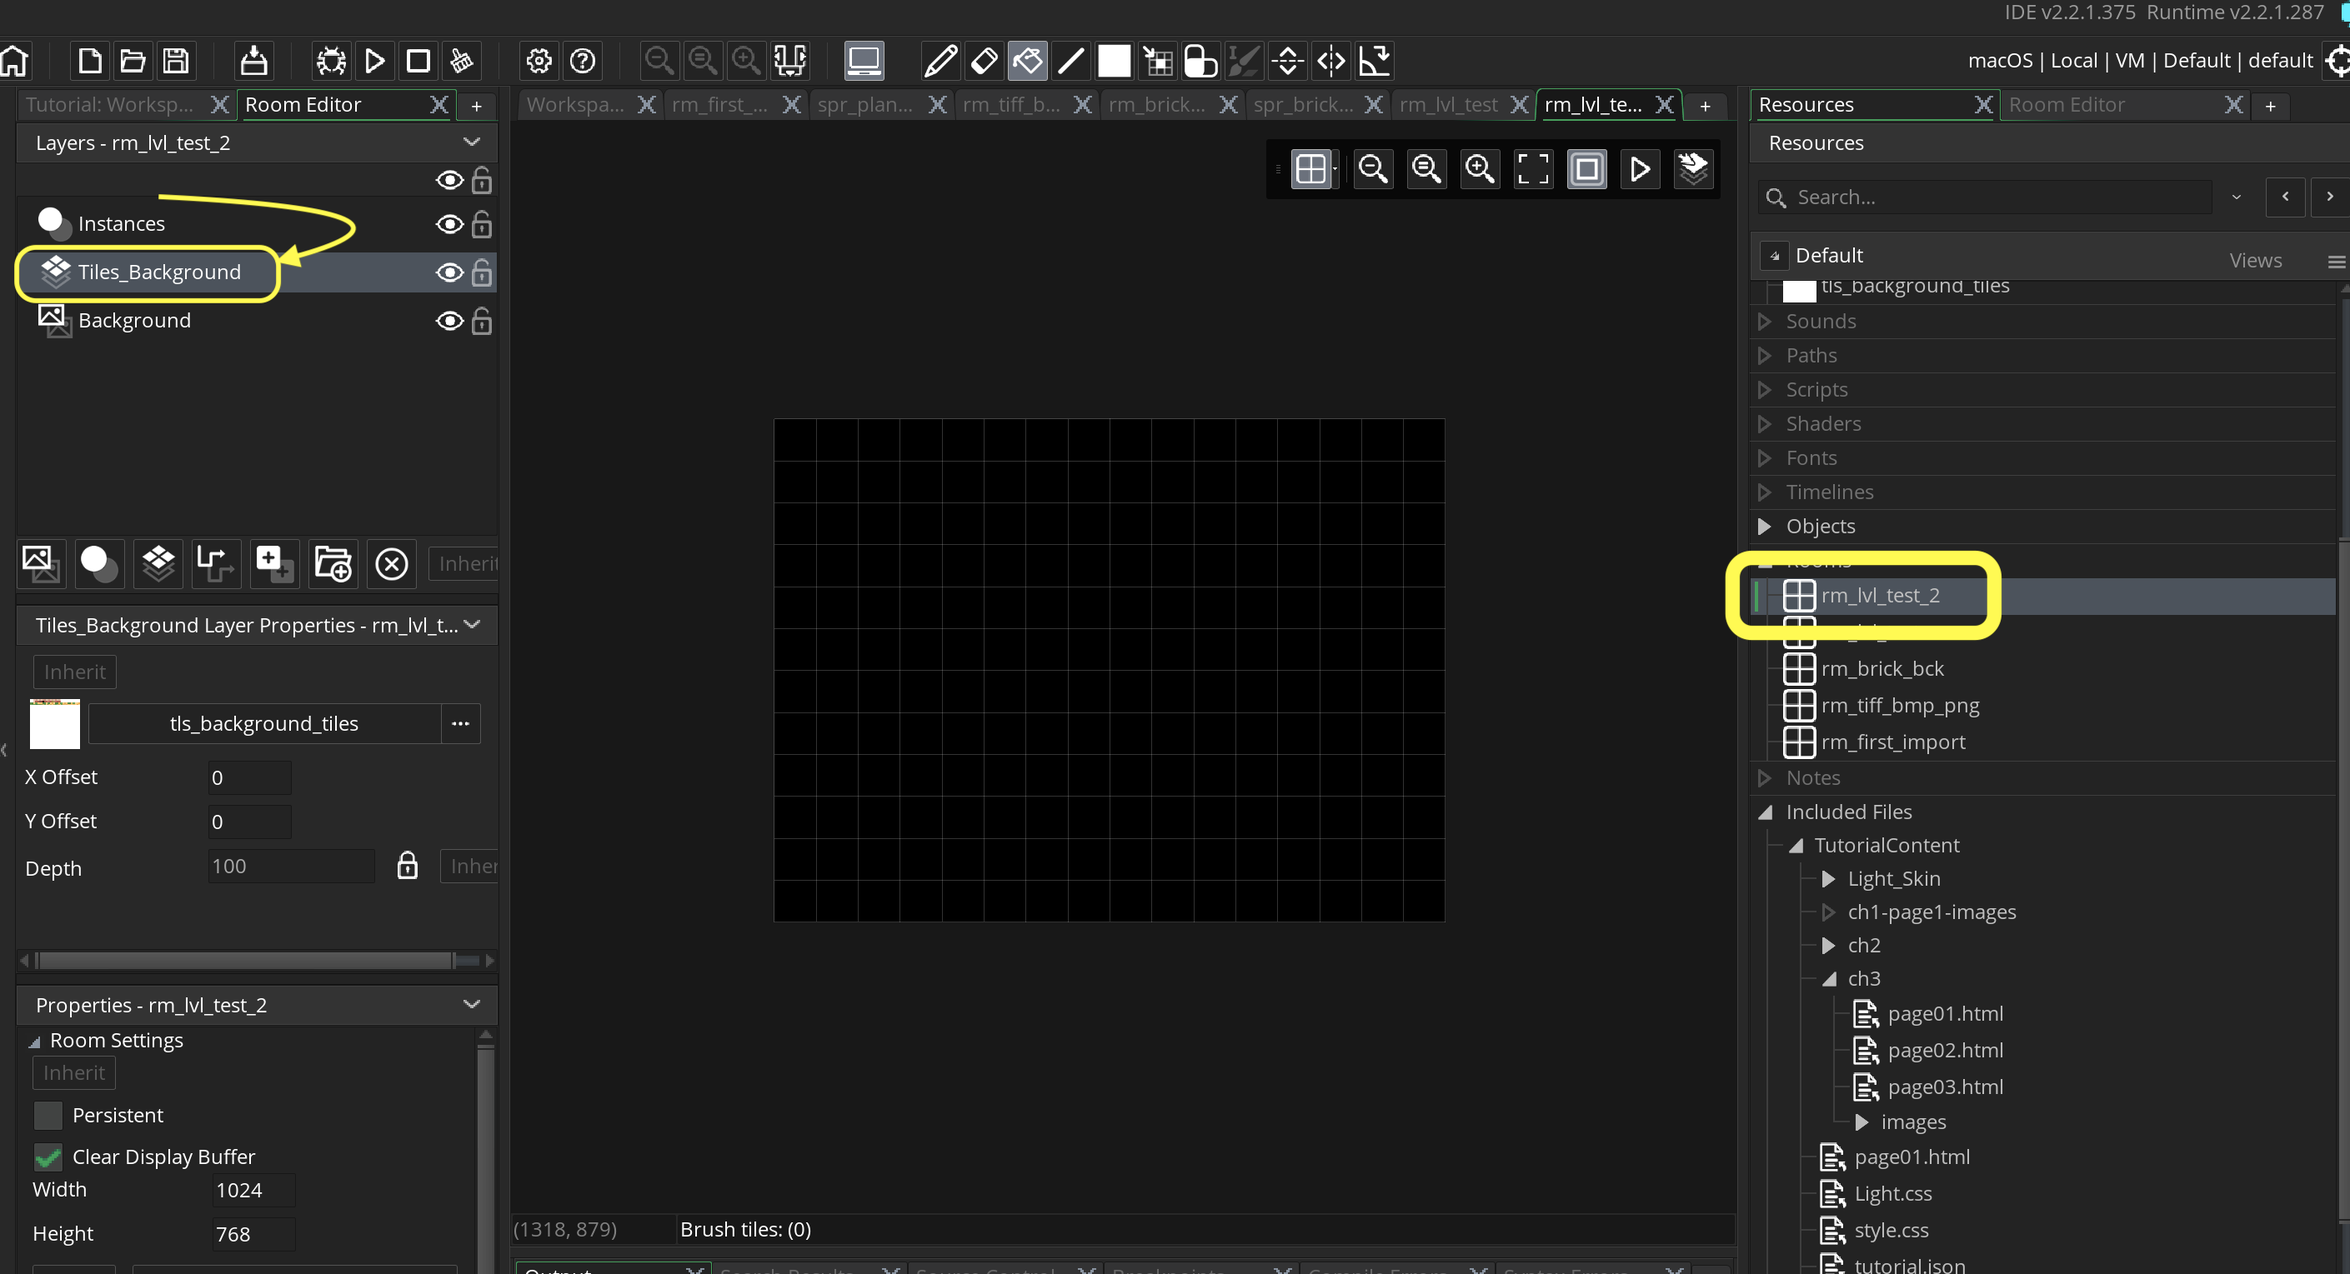
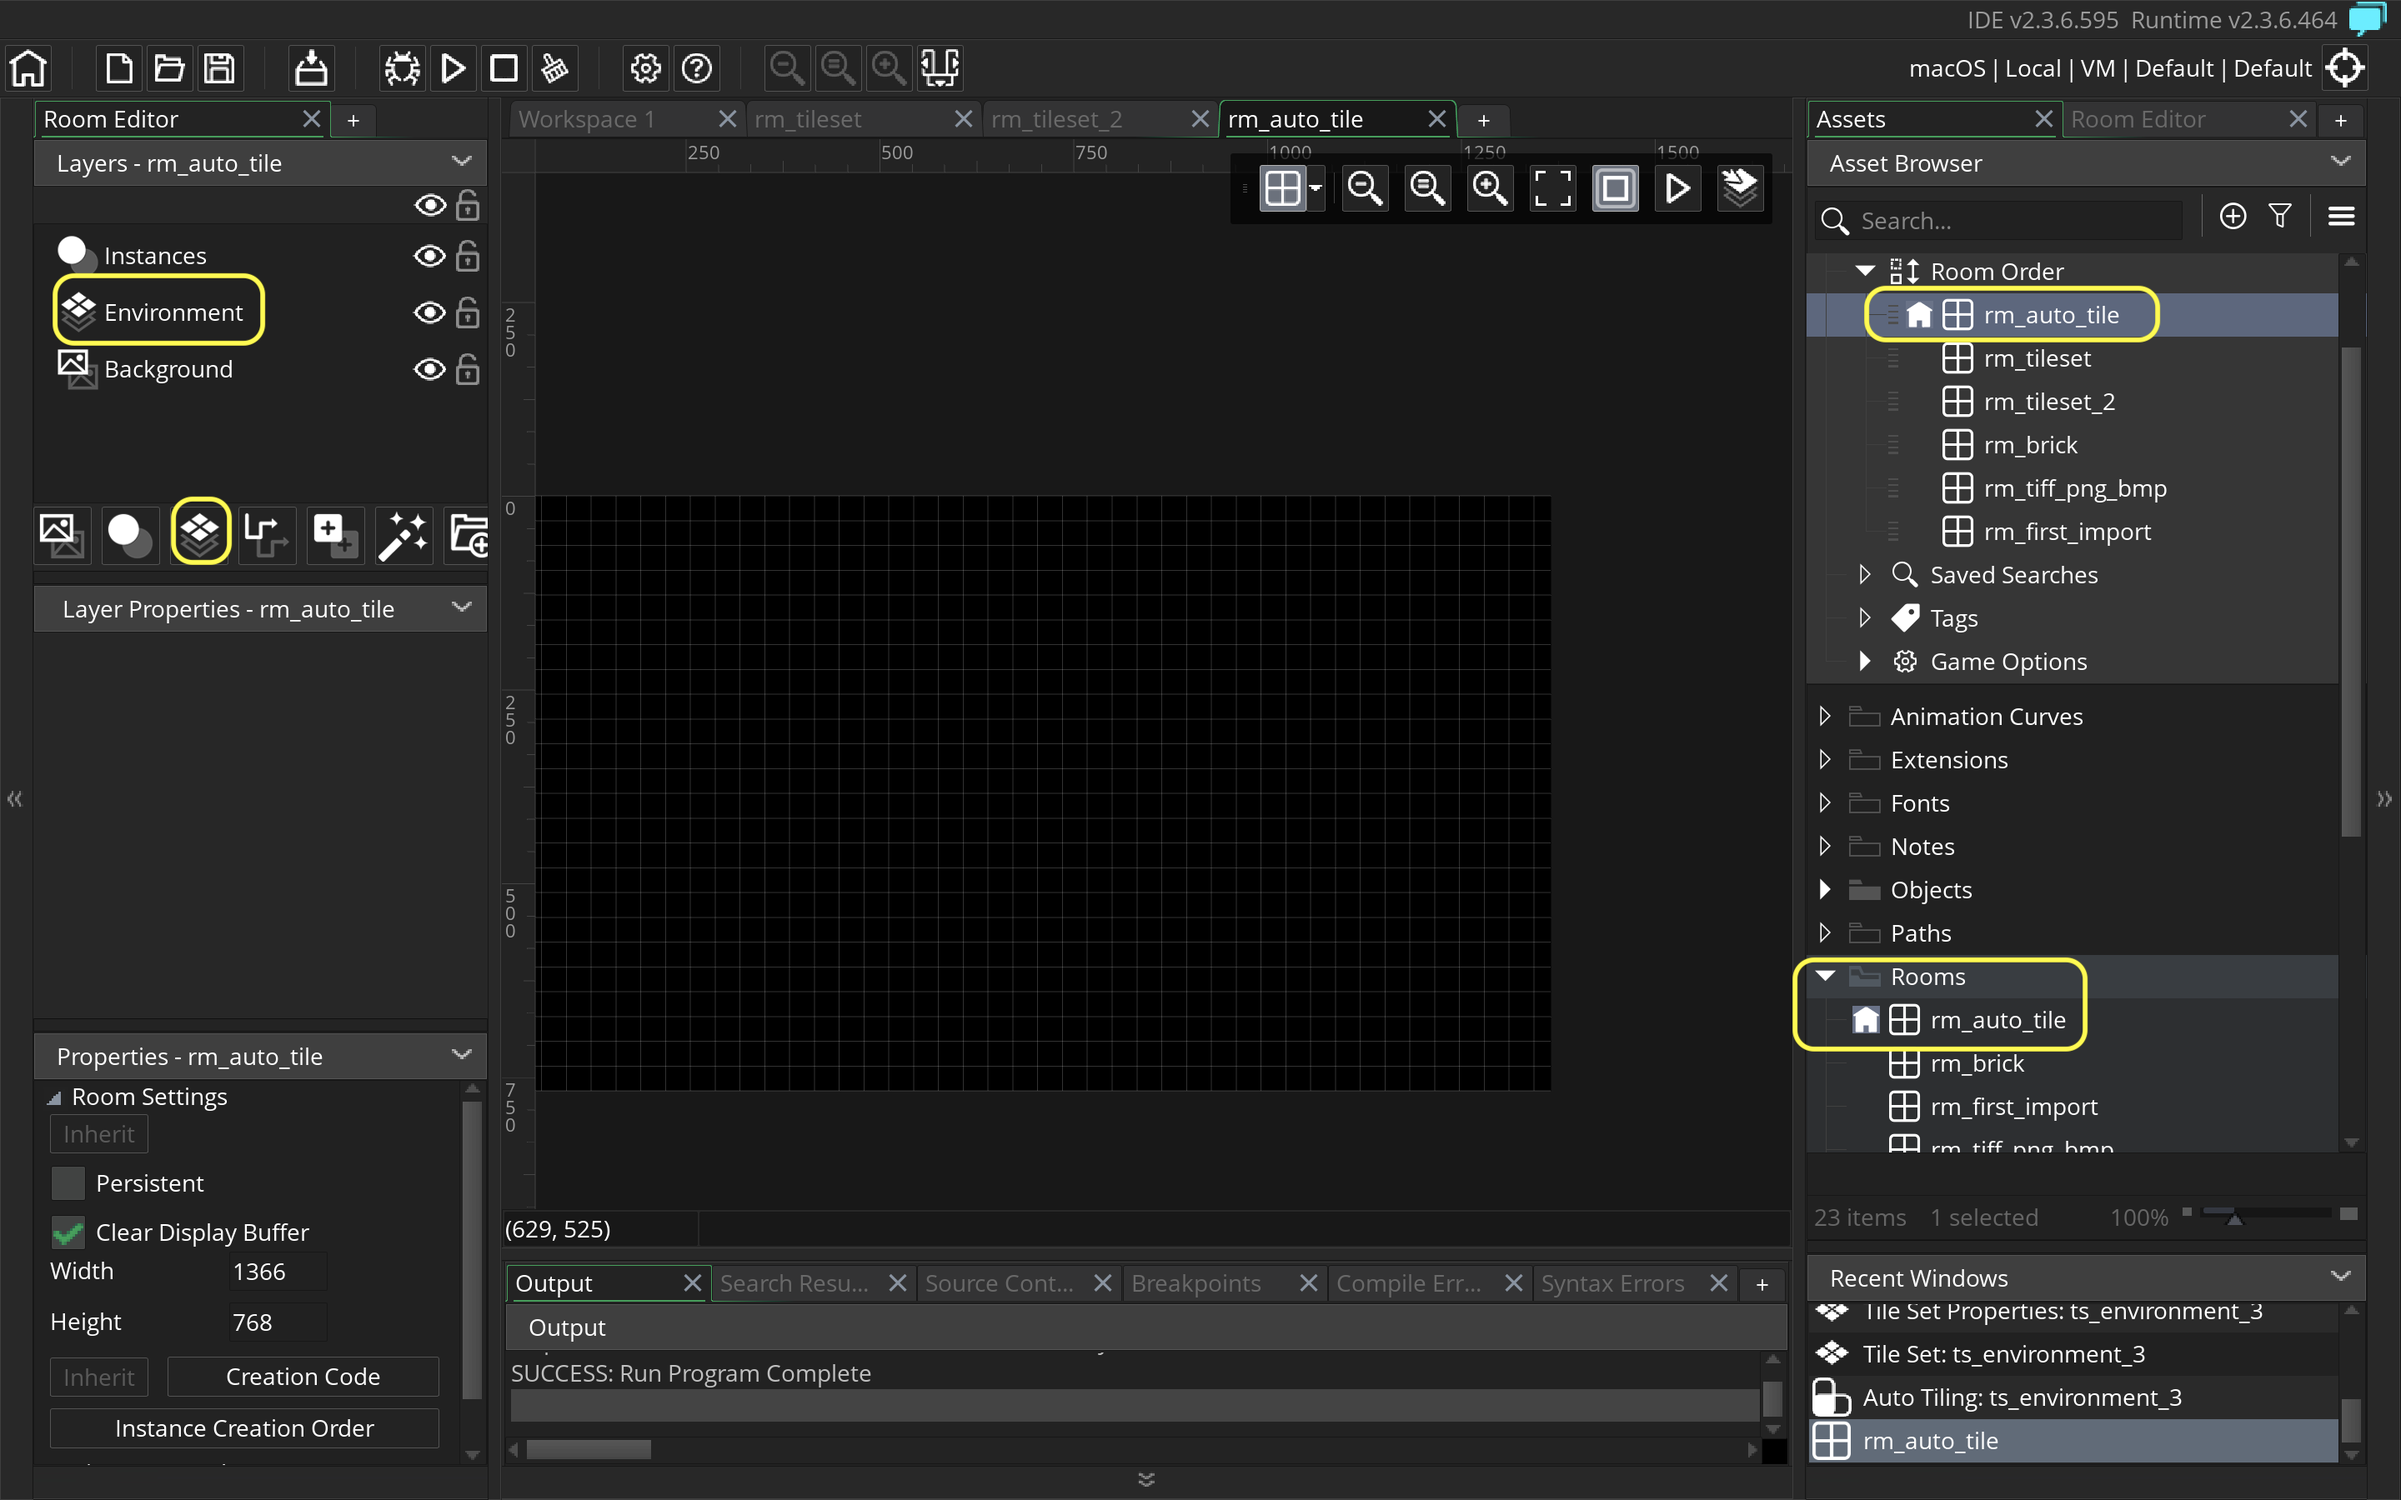
Update updating backgrounds

diff --git a/auto-tile/README.md b/auto-tile/README.md
@@ -77,17 +77,17 @@ https://user-images.githubusercontent.com/5504953/143030131-6609fc3d-631d-4c4f-b
 
 ##### `Step 8.`\|`BTS`| :small_orange_diamond: :small_blue_diamond: :small_blue_diamond: :small_blue_diamond:
 
-Name this auto tile under the Library tab `auto_grass_to_sand`. This will be grass surrounded by sand.
+Name this auto tile under the Library tab `auto_dirt_to_grass`. This will be dirt surrounded by grass.
 
 ![Name this auto_grass_to_sand under Library](images/GrassToSand.png)
-
-*Create* a new room and call it `rm_lvl_test_2`.  *Move* it to the top of the list in **Room Priority**. Add a new **Tile Layer** called `Tiles_Background`.  Place it *beneath* the Instance layer:
-
-![Create a room called rm_lvl_test_2 and add tile layer Tiles_Background](images/SecondTestRoom.png)
 
 <img src="https://via.placeholder.com/500x2/45D7CA/45D7CA" alt="drawing" height="2px" alt = ""/>
 
 ##### `Step 9.`\|`BTS`| :small_orange_diamond: :small_blue_diamond: :small_blue_diamond: :small_blue_diamond: :small_blue_diamond:
+
+*Create* a new room and call it `rm_auto_tile`.  *Move* it to the top of the list in **Room Priority**. Add a new **Tile Layer** called `Tiles_Background`.  Place it *beneath* the Instance layer:
+
+![Create a room called rm_lvl_test_2 and add tile layer Tiles_Background](images/SecondTestRoom.png)
 
 Make sure you are on the **Tiles_Brackground** layer.  Now the tile on the left will be inside the tile on the right.  So lets select the paint bucket tool on the top toolbar and fill the entire level with sand.  Then we can go in and paint with grass inside by selecting the auto tile tool.
 
